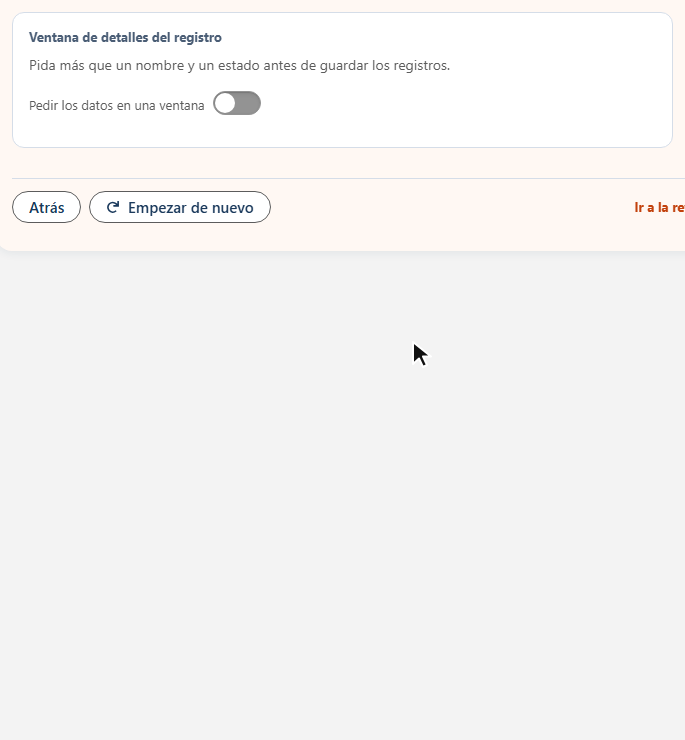
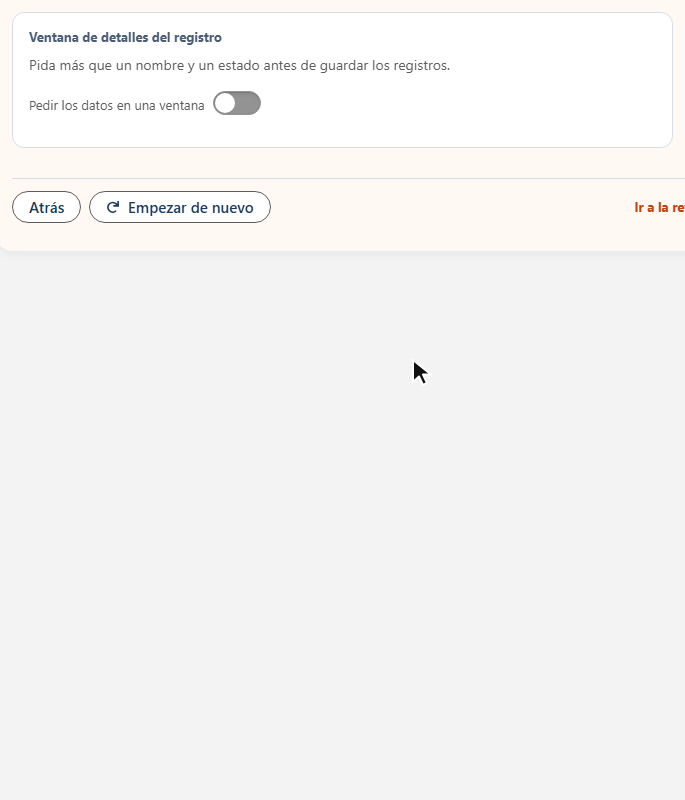
Spanish record details pop-up setup GIF: its last line in full
Retaken with room for the taller Spanish box (its default value header wraps), so the {count} and {object} hint is no
longer cut in half.

diff --git a/es/blog/crear-varias-tareas-salesforce-calendario.html b/es/blog/crear-varias-tareas-salesforce-calendario.html
@@ -330,7 +330,7 @@
                 </figure>
                 <p>Los campos, cuáles son obligatorios, sus valores predeterminados y su ancho se definen en la pantalla Campos del asistente, y la ventana también puede abrirse en cuanto se hace clic en un día, una tarea cada vez. Solo aparecen los campos que esa persona puede rellenar al crear una tarea, y los que Salesforce exige se marcan como obligatorios.</p>
                 <figure class="sc-shot tk-narrow">
-                    <img src="/images/es/blog/salesforce-ventana-detalles-registro-configuracion-poster.png" data-gif="/images/es/blog/salesforce-ventana-detalles-registro-configuracion.gif" alt="Demo animada de los ajustes de Ventana de detalles del registro en el asistente de configuración de MultiDatePick: activada, Prioridad añadida con High como valor predeterminado y Lo elige el usuario marcado en Rellenar" loading="lazy" decoding="async" width="685" height="740" data-zoomable>
+                    <img src="/images/es/blog/salesforce-ventana-detalles-registro-configuracion-poster.png" data-gif="/images/es/blog/salesforce-ventana-detalles-registro-configuracion.gif" alt="Demo animada de los ajustes de Ventana de detalles del registro en el asistente de configuración de MultiDatePick: activada, Prioridad añadida con High como valor predeterminado y Lo elige el usuario marcado en Rellenar" loading="lazy" decoding="async" width="685" height="800" data-zoomable>
                     <figcaption>Actívala, elige los campos y fija un valor predeterminado: sin código.</figcaption>
                 </figure>
 
